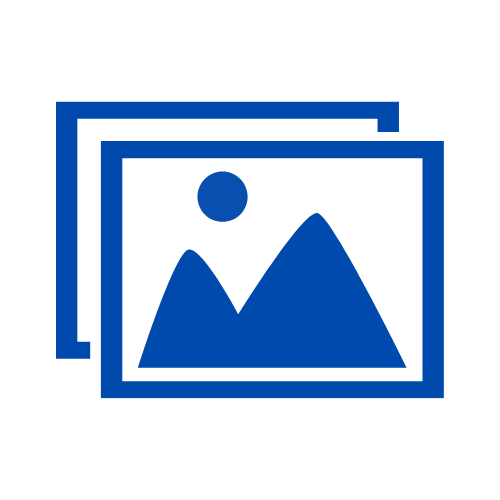
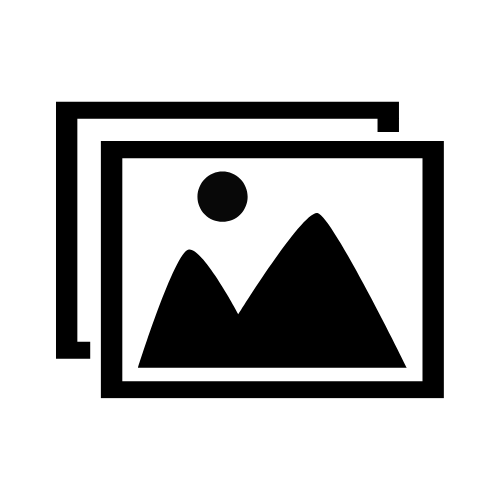
black and white images

Changed region(s): [[0.09, 0.18, 0.9, 0.81]]

diff --git a/public/css/form.css b/public/css/form.css
@@ -1,0 +1,10 @@
+form {
+    border: 2px solid #d4d4d4;
+    width: 400px; padding: 12px;
+    margin: auto auto 24px auto;
+    border-radius: 20px;
+}
+
+input, select {
+    max-width: 400px;
+}

diff --git a/resources/views/pages/edit_resource.blade.php b/resources/views/pages/edit_resource.blade.php
@@ -2,26 +2,24 @@
 
 
 @section('head-content')
-   <style>
-       input, select {
-       max-width: 400px;
-   }
-   </style>
+<link rel="stylesheet" href="/css/form.css">
 @endsection
 
 
 @section('body-content')
 <h1 style="text-align: center;"> Edit Resource</h1>
-   <form action="" method="post" style="border: 2px solid #d4d4d4; width: 400px; padding: 12px; margin: auto auto 24px auto; border-radius: 20px;">
+   <form action="" method="post">
        <div class="mb-3"> <p>Here is the current file: </p>
        <br>
        <div id="edit-resource-display"></div>
        <br>
+       <!--File Upload-->
        <p>If you want to change the note file upload a new note: </p>
        </div>
        <input type="file" id="file" name="file">
        <br>
        <br>
+       <!--File Title-->
        <div class="mb-3">
        <label for="title">Title:</label>
        <br>
